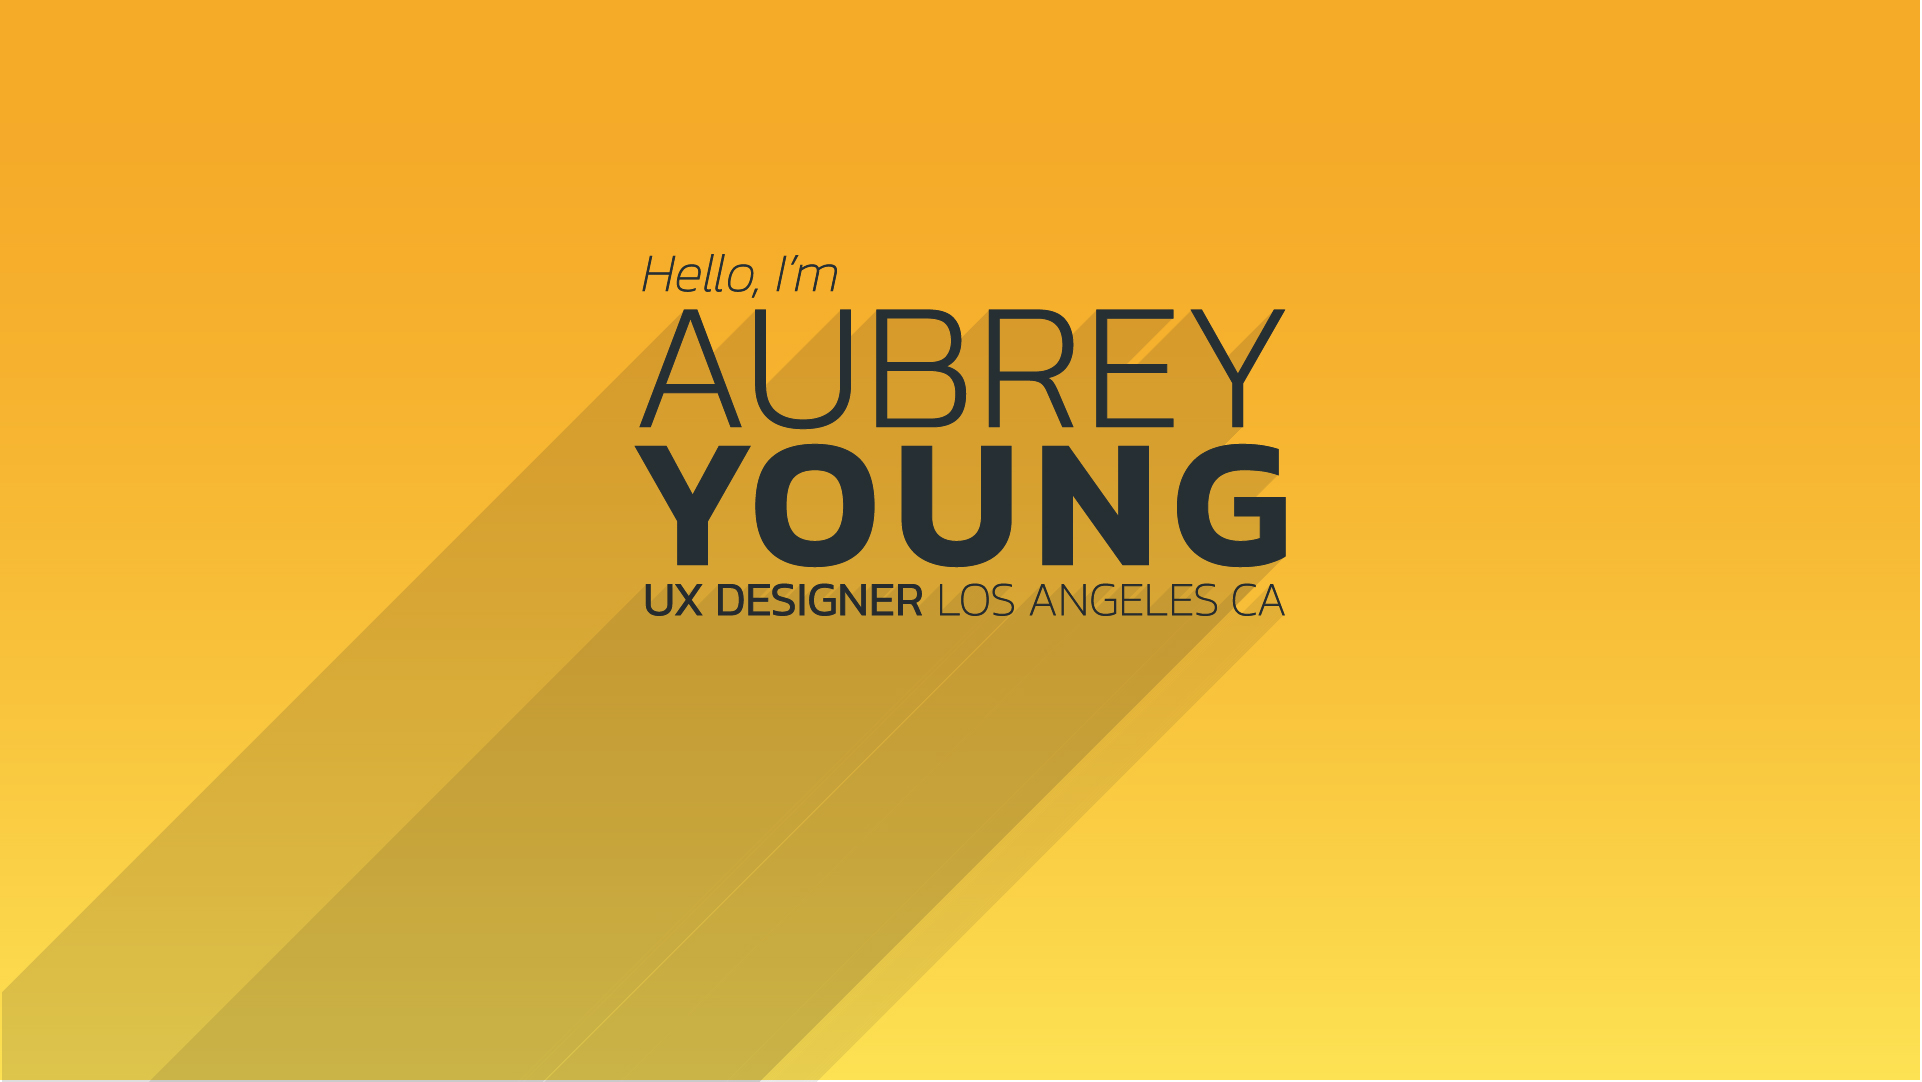
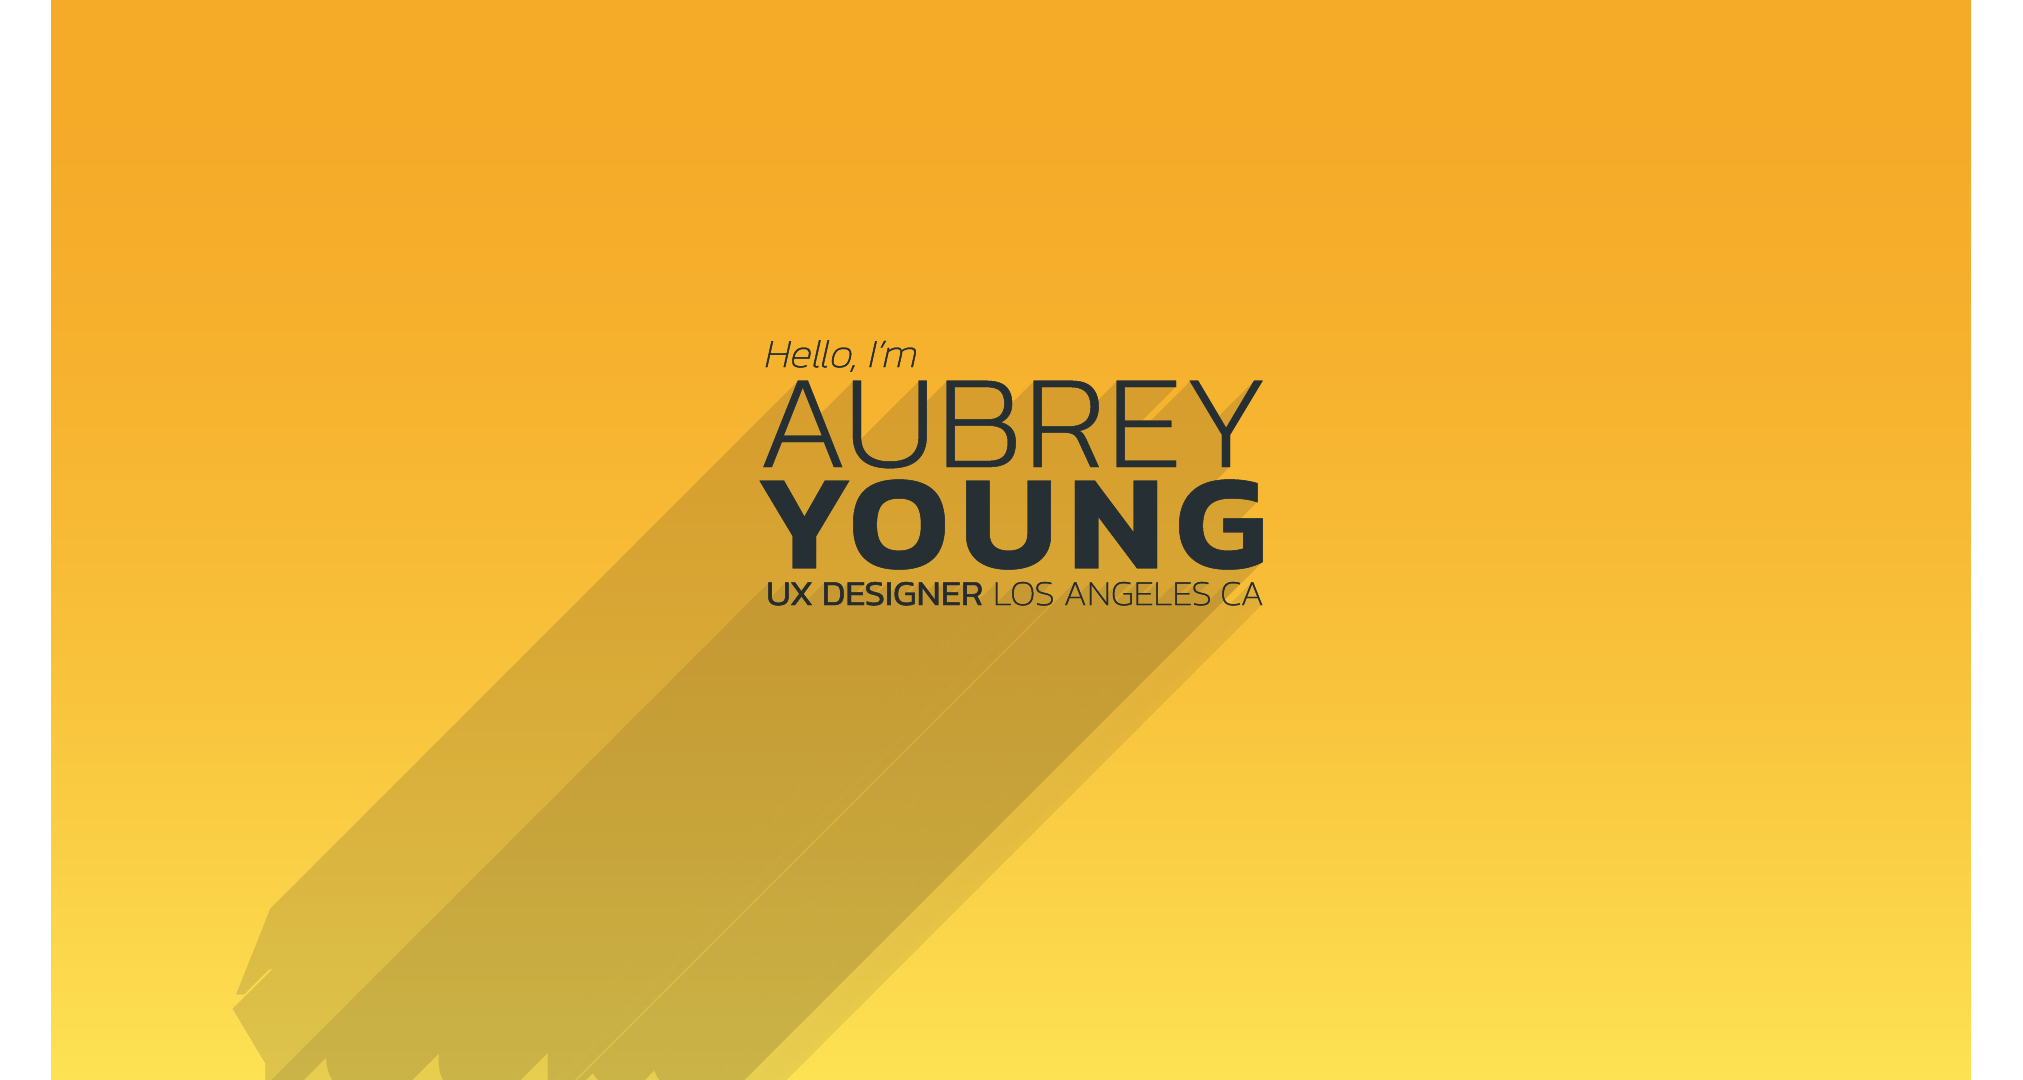
fixed 'About' page

diff --git a/about.html b/about.html
@@ -34,19 +34,13 @@
 						class="column is-offset-0-desktop is-12-desktop is-offset-1-tablet is-10-tablet"
 					>
 						<div class="content">
-							<div class="columns">
-								<div
-									class="column is-offset-0-desktop is-9-desktop is-offset-1-tablet is-10-tablet"
-								>
-									<h1 class="title" style="opacity: 75%">
-										MARTIAL ARTIST • HIP-HOP CONNOISSEUR • GAMER • DOG DAD
-									</h1>
-								</div>
-							</div>
 							<div class="columns is-multiline">
 								<div
 									class="column is-offset-0-desktop is-5-desktop is-offset-1-tablet is-10-tablet"
 								>
+									<h2 class="title mt-0" style="opacity: 75%">
+										MARTIAL ARTIST • HIP-HOP CONNOISSEUR • GAMER • DOG DAD
+									</h2>
 									<figure class="image is-5by4 mb-6">
 										<img src="../../img/hawaii-wave.jpg" id="rounded" />
 									</figure>
